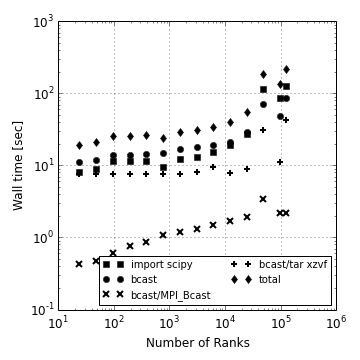
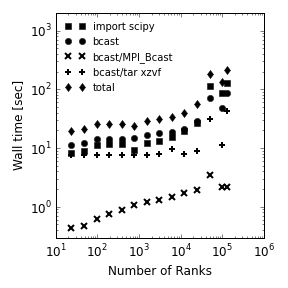
update figures.

diff --git a/cray-xt/plot.py b/cray-xt/plot.py
@@ -4,7 +4,7 @@ import numpy
 
 nodes, bcast, tar, chmod, bcasttot, launch = numpy.loadtxt('./collect.txt', unpack=True)
 
-f = Figure(figsize=(5, 5))
+f = Figure(figsize=(4, 4))
 ax = f.add_subplot(111)
 
 ax.plot(nodes * 32, launch, 's ', color='k', label='import scipy')
@@ -15,12 +15,13 @@ ax.plot(nodes * 32, launch + bcasttot, 'd ', color='k', label='total')
 
 ax.set_xlabel('Number of Ranks')
 ax.set_ylabel('Wall time [sec]')
-ax.set_ylim(1e-1, 1e3)
+ax.set_ylim(3e-1, 2e3)
 ax.set_xscale('log')
 ax.set_yscale('log')
-ax.grid()
-ax.legend(loc='lower right', frameon=True, ncol=2, fontsize='small')
+#ax.grid()
+ax.legend(loc='upper left', frameon=False, ncol=1, fontsize='small')
 canvas = FigureCanvasAgg(f)
 f.tight_layout()
 f.savefig('cray-xt-startup-time.png', dpi=72)
 f.savefig('cray-xt-startup-time-hires.png', dpi=200)
+f.savefig('cray-xt-startup-time-hires.pdf', dpi=200)

diff --git a/cray-xc30/plot.py b/cray-xc30/plot.py
@@ -4,7 +4,7 @@ import numpy
 
 nodes, bcast, tar, chmod, bcasttot, launch = numpy.loadtxt('./collect.txt', unpack=True)
 
-f = Figure(figsize=(5, 5))
+f = Figure(figsize=(4, 4))
 ax = f.add_subplot(111)
 
 ax.plot(nodes * 24, launch, 's ', color='k', label='import scipy')
@@ -17,9 +17,11 @@ ax.set_xlabel('Number of Ranks')
 ax.set_ylabel('Wall time [sec]')
 ax.set_xscale('log')
 ax.set_yscale('log')
-ax.grid()
-ax.legend(loc='lower right', frameon=True, ncol=2, fontsize='small')
+ax.set_ylim(3e-1, 2e3)
+#ax.grid()
+ax.legend(loc='upper left', frameon=False, ncol=1, fontsize='small')
 canvas = FigureCanvasAgg(f)
 f.tight_layout()
 f.savefig('cray-xc30-startup-time.png', dpi=72)
-f.savefig('cray-xc30-startup-time-highres.png', dpi=200)
+f.savefig('cray-xc30-startup-time-hires.png', dpi=200)
+f.savefig('cray-xc30-startup-time-hires.pdf', dpi=200)
